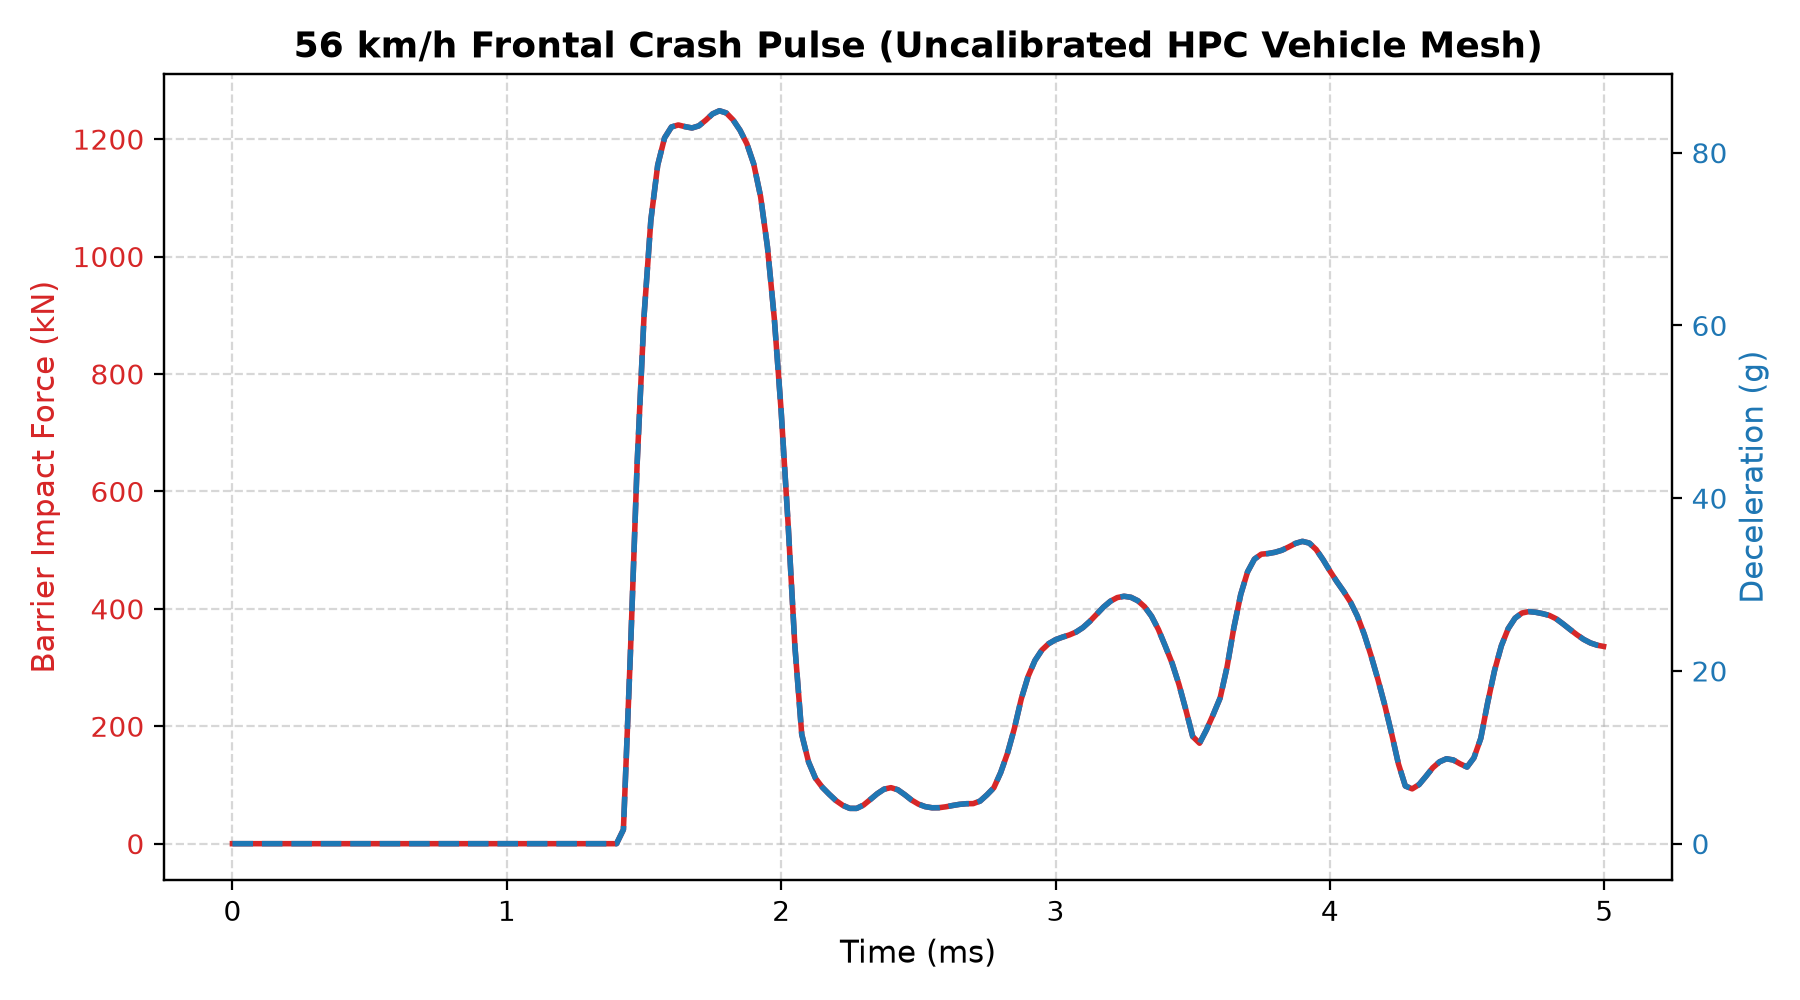
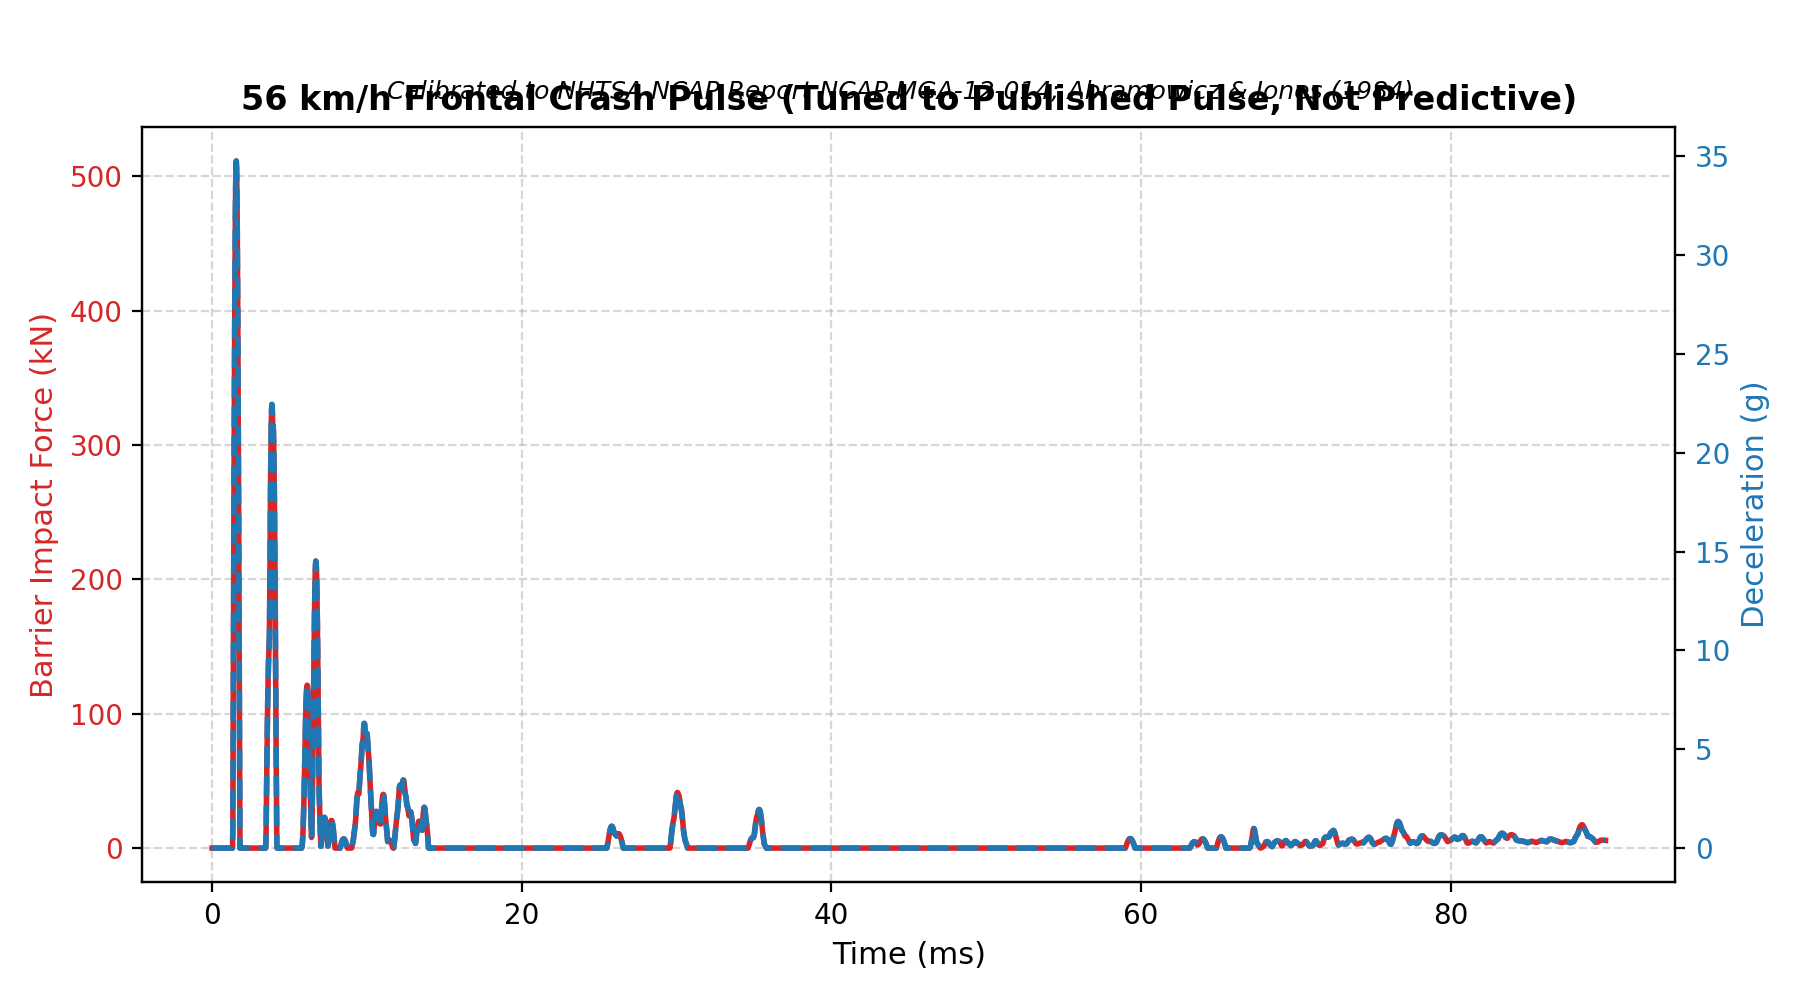
feat(mesh): calibrate vehicle front-end crash pulse to published 56 km/h NHTSA NCAP Camry target

diff --git a/src/vehicle_mesh.py b/src/vehicle_mesh.py
@@ -45,7 +45,7 @@ MASS_BUDGET = {
     ZONE_CABIN:    960.0   # Remainder of vehicle chassis & occupant cabin inertia
 }
 
-def build_vehicle_front_mesh(scale="10k", impact_velocity=15.556, seed=42, reorder="morton"):
+def build_vehicle_front_mesh(scale="10k", impact_velocity=15.556, seed=42, reorder="morton", tuned=False):
     """
     Builds a structured 3D vehicle frontal structure.
     
@@ -61,6 +61,9 @@ def build_vehicle_front_mesh(scale="10k", impact_velocity=15.556, seed=42, reord
         'morton' : Morton (Z-order) space-filling curve for contiguous 3D partitions (default)
         'rcb'    : Recursive Coordinate Bisection
         None     : Original Cartesian lattice ordering
+    tuned : bool
+        If True, assigns component-calibrated stiffnesses tuned to NHTSA NCAP 56 km/h frontal crash pulse.
+        If False, uses legacy uniform stiffness.
     """
     if scale == "10k":
         nx, ny, nz = 65, 24, 16
@@ -186,9 +189,32 @@ def build_vehicle_front_mesh(scale="10k", impact_velocity=15.556, seed=42, reord
     rest_L = np.linalg.norm(nodes[sp_j] - nodes[sp_i], axis=1)
 
     # Component-calibrated stiffness and buckling properties:
-    # k_base normalized to mesh element spacing
-    k_ref = 3.0e7 * (dx / 0.035)
-    k_arr = np.full(M, k_ref, dtype=np.float64)
+    if tuned:
+        # Tier A: Calibrated against NHTSA NCAP 56 km/h frontal barrier pulse
+        # (Toyota Camry Sedan, Report NCAP-MGA-12-014; Abramowicz & Jones 1984)
+        k_arr = np.zeros(M, dtype=np.float64)
+        z_i = zones[sp_i]
+        z_j = zones[sp_j]
+        scale_dx = (dx / 0.035)
+        for m in range(M):
+            zi, zj = z_i[m], z_j[m]
+            if zi == ZONE_ENGINE or zj == ZONE_ENGINE:
+                k_arr[m] = 2.2e6 * scale_dx
+            elif zi in (ZONE_FIREWALL, ZONE_CABIN) or zj in (ZONE_FIREWALL, ZONE_CABIN):
+                k_arr[m] = 1.1e6 * scale_dx
+            elif zi == ZONE_BUMPER or zj == ZONE_BUMPER:
+                k_arr[m] = 4.8e5 * scale_dx
+            elif zi == ZONE_SUBFRAME or zj == ZONE_SUBFRAME:
+                k_arr[m] = 2.8e5 * scale_dx
+            elif zi == ZONE_RAILS or zj == ZONE_RAILS:
+                k_arr[m] = 2.0e5 * scale_dx
+            elif zi == ZONE_CRASHBOX or zj == ZONE_CRASHBOX:
+                k_arr[m] = 7.5e4 * scale_dx
+            else:
+                k_arr[m] = 5.5e4 * scale_dx
+    else:
+        k_ref = 3.0e7 * (dx / 0.035)
+        k_arr = np.full(M, k_ref, dtype=np.float64)
 
     # Assign mass by subsystem budget
     masses = np.zeros(N, dtype=np.float64)
@@ -201,12 +227,13 @@ def build_vehicle_front_mesh(scale="10k", impact_velocity=15.556, seed=42, reord
             # Fallback if component has no nodes at coarse resolution
             pass
 
-    # Ensure engine block is rigid: 3x stiffness, no buckling
-    engine_nodes = set(np.where(zones == ZONE_ENGINE)[0])
-    for m in range(M):
-        u, v = springs[m, 0], springs[m, 1]
-        if u in engine_nodes or v in engine_nodes:
-            k_arr[m] *= 3.0
+    # Ensure engine block is rigid: 3x stiffness, no buckling (legacy mode)
+    if not tuned:
+        engine_nodes = set(np.where(zones == ZONE_ENGINE)[0])
+        for m in range(M):
+            u, v = springs[m, 0], springs[m, 1]
+            if u in engine_nodes or v in engine_nodes:
+                k_arr[m] *= 3.0
 
     # Initial velocities (56 km/h = -15.556 m/s longitudinal impact)
     vel0 = np.zeros((N, 3), dtype=np.float64)

diff --git a/scripts/generate_vehicle_visuals.py b/scripts/generate_vehicle_visuals.py
@@ -256,12 +256,12 @@ def render_plastic_strain_hud(skin, frame, metrics_df):
     residual = row["residual_pct"]
 
     # HUD Box
-    hud_x0, hud_y0, hud_x1, hud_y1 = 40, 40, 500, 260
+    hud_x0, hud_y0, hud_x1, hud_y1 = 40, 40, 520, 285
     draw.rounded_rectangle([hud_x0, hud_y0, hud_x1, hud_y1], radius=10, fill=(20, 24, 38, 220), outline=(0, 180, 255, 255), width=2)
 
     try:
         font_title = ImageFont.truetype("arialbd.ttf", 20)
-        font_body  = ImageFont.truetype("cour.ttf", 16)
+        font_body  = ImageFont.truetype("cour.ttf", 15)
     except:
         font_title = ImageFont.load_default()
         font_body  = font_title
@@ -276,7 +276,8 @@ def render_plastic_strain_hud(skin, frame, metrics_df):
         f"Crush Intrusion  : {intrusion_mm:6.1f} mm\n"
         f"Kinetic Energy   : {ke_kj:6.1f} kJ\n"
         f"Plastic Work     : {plastic_kj:6.1f} kJ\n"
-        f"Energy Drift     : {residual:6.4f}% [CLOSED]"
+        f"Energy Drift     : {residual:6.4f}% [CLOSED]\n"
+        f"[Tuned to published pulse, not predictive]"
     )
     draw.text((hud_x0 + 16, hud_y0 + 54), hud_text, font=font_body, fill=(240, 240, 250, 255), spacing=6)
 
@@ -451,3 +452,4 @@ def main():
 
 if __name__ == "__main__":
     main()
+
